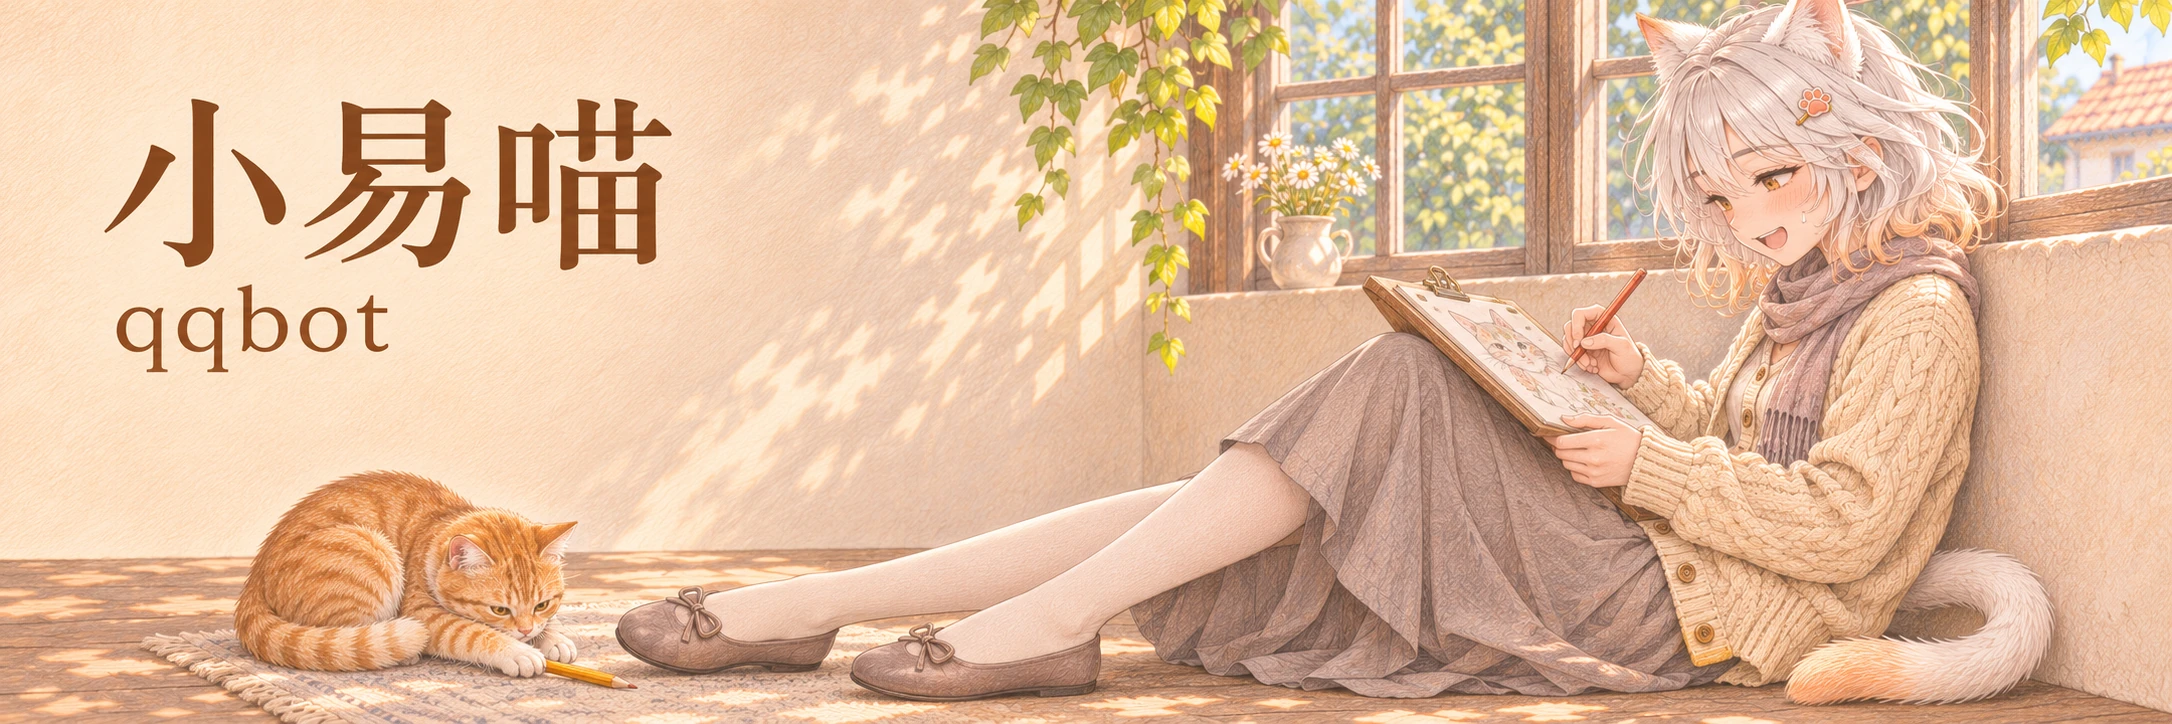
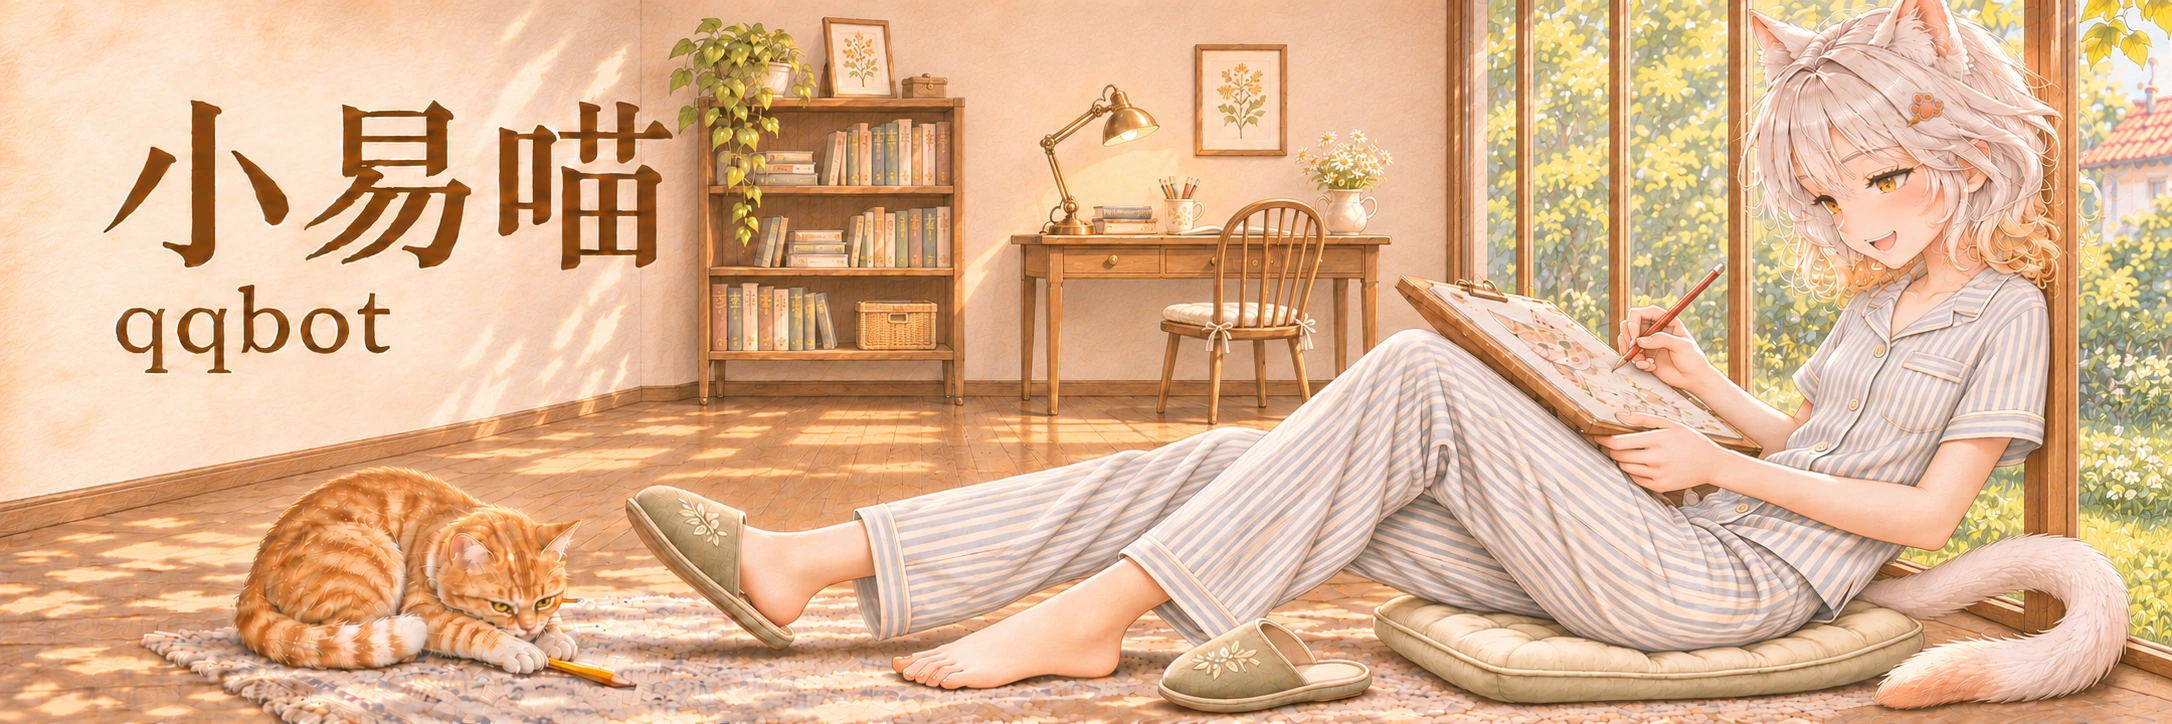
Update README cover illustration

diff --git a/README.md b/README.md
@@ -1,4 +1,4 @@
-![小易喵 · qqbot。白发浅橘发尖的小易靠墙坐着，在膝上的画板画画，橘猫趴在她脚边。](docs/assets/xiaoyi-qqbot-cover.webp)
+![小易喵 · qqbot。小易坐在洒满阳光的窗边画画，一只橘猫趴在地毯上。](docs/assets/xiaoyi-qqbot-cover.webp)
 
 # DSH-bot：有自己的性格，也知道什么时候别插话
 
